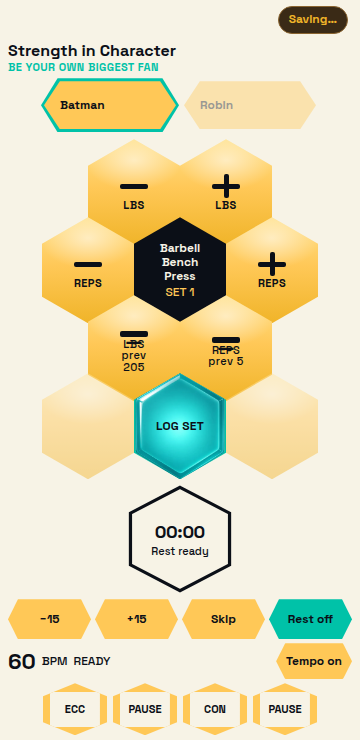
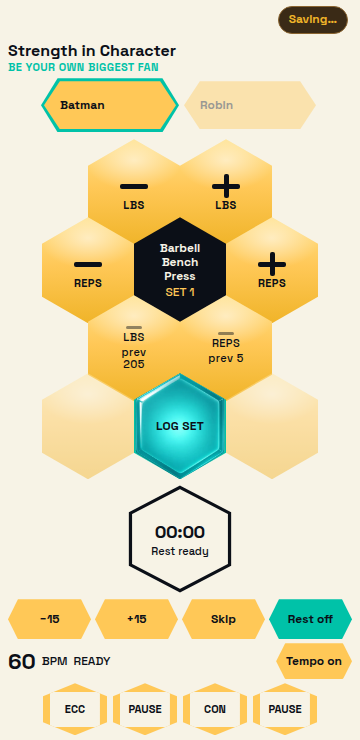
fix: keep the Hex value dash clear of the unit label
The blank placeholder is a short light bar with space above LBS and REPS, so it no longer reads as a strikethrough at 360 or 390.

Changed region(s): [[0.5806, 0.4351, 0.6722, 0.4973], [0.3361, 0.4351, 0.4278, 0.4973]]

diff --git a/css/sic.css b/css/sic.css
@@ -2242,10 +2242,11 @@ body.skin-hexhive .hh-core-copy {
 }
 body.skin-hexhive .ex-name { margin: 0; font-size: 12px; color: #F7F3E6; line-height: 1.15; }
 body.skin-hexhive .set-progress { margin: 2px 0 0; font-size: 12px; color: #FFC857; }
-body.skin-hexhive .hh-val .hh-hit { align-items: center; text-align: center; }
-body.skin-hexhive .hh-dash {
-  display: block; width: 28px; height: 6px; margin: 8px auto 2px;
-  background: #0B0F17; border-radius: 2px; font-size: 0; line-height: 0;
+body.skin-hexhive .hh-val .hh-hit { align-items: center; justify-content: center; text-align: center; gap: 3px; }
+body.skin-hexhive .hh-hit b.hh-dash {
+  display: block; width: 16px; height: 3px; margin: 0 auto; flex: 0 0 auto;
+  background: rgba(11, 15, 23, 0.45); border-radius: 2px;
+  font-size: 0; line-height: 0; overflow: hidden; color: transparent;
 }
 body.skin-hexhive .hh-num {
   width: 100%; min-height: 30px; height: 30px; padding: 0; margin: 0; border: 0; border-radius: 0;

diff --git a/js/sic-app.js b/js/sic-app.js
@@ -818,7 +818,7 @@
     function valueHex(field, title, prev) {
       if (!cur || !set) return '';
       const raw = set[field] || '';
-      const dash = raw ? '' : '<b class="hh-dash" aria-hidden="true">—</b>';
+      const dash = raw ? '' : '<b class="hh-dash" aria-hidden="true"></b>';
       return cell('hh-val' + (raw ? '' : ' hh-empty'), '<label class="hh-hit">' + dash + '<input class="hh-num" data-lockrender="1" data-act="field" data-ex="' + esc(cur.id) + '" data-set="' + esc(set.id) + '" data-field="' + field + '" type="number" inputmode="decimal" value="' + esc(raw) + '" aria-label="' + (field === 'weight' ? 'Pounds' : 'Reps') + '"><small>' + title + '</small><small class="hh-prev">prev ' + esc(prev) + '</small></label>');
     }
     const people = state.duoMode ? ['batman', 'robin'] : [partner()];
